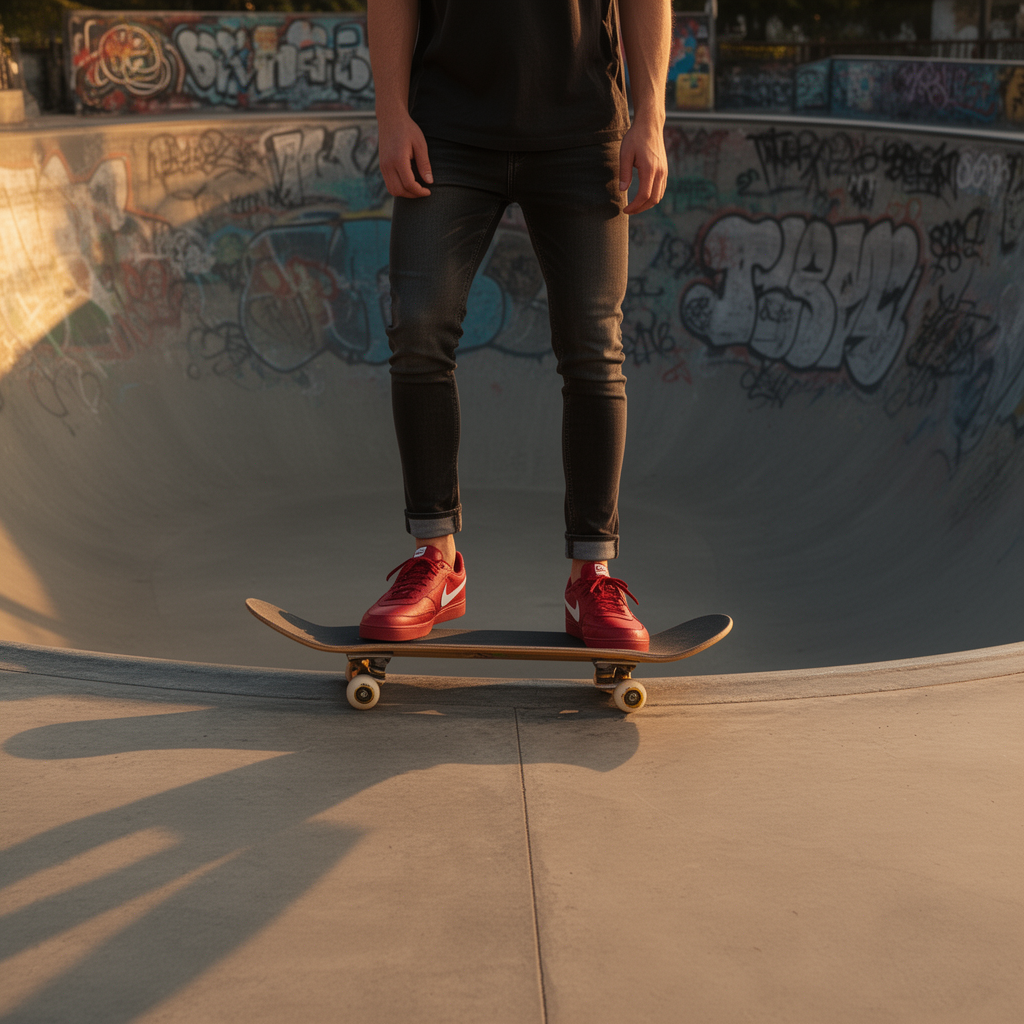
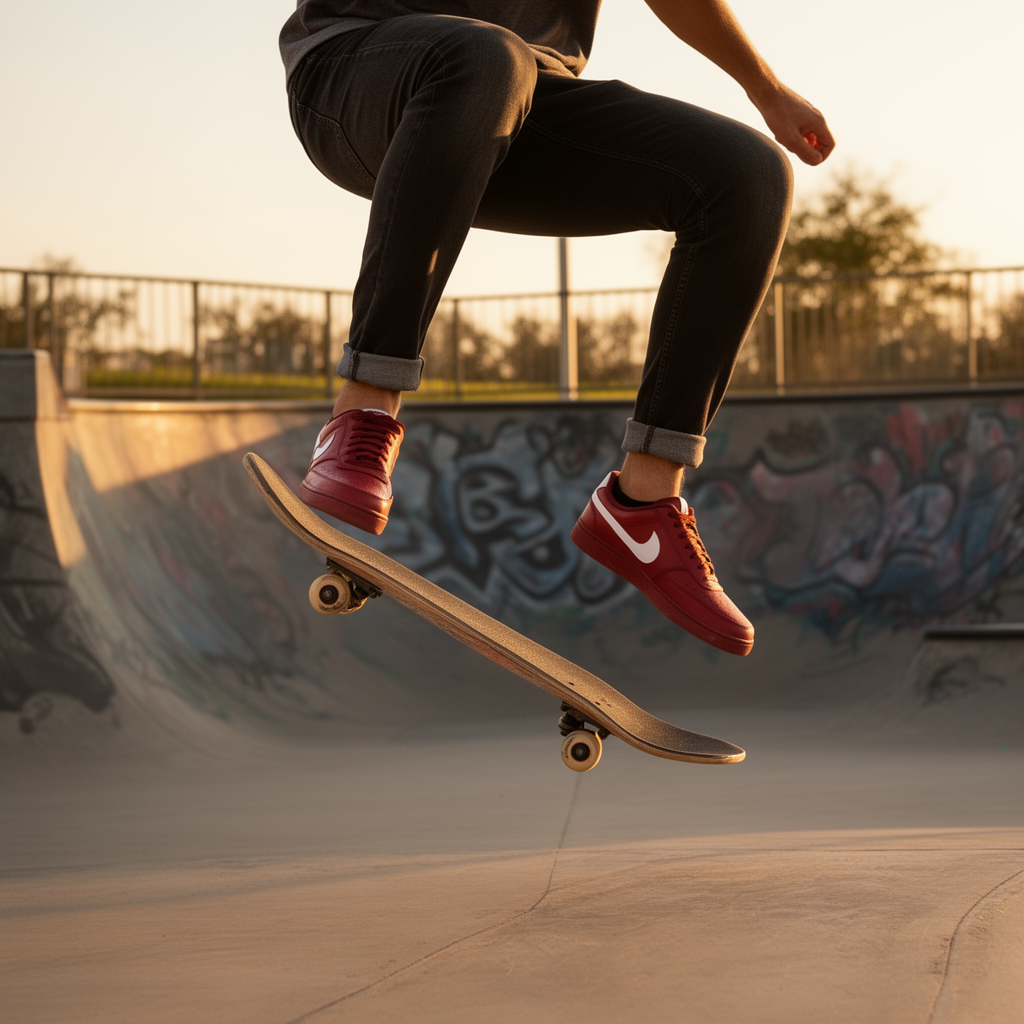
Replace mens4 skatepark stand with ollie action shot
Dynamic pose that held up — original pipeline, shoe cutout ref.

diff --git a/app/portfolio/page.tsx b/app/portfolio/page.tsx
@@ -730,9 +730,9 @@ const portfolioItems: PortfolioItem[] = [
   },
   {
     src: "/images/portfolio/nike/mens4_on_model.png",
-    title: "Skatepark Stand",
+    title: "Ollie",
     subject: "Nike Court Vision — Mens",
-    scene: "Standing atop a halfpipe, foot on the skateboard",
+    scene: "Mid-ollie at a skatepark, golden hour",
     model: "Flux 2 Dev",
     tags: ["Nike", "Mens", "On Model", "Court Vision"],
     category: "nike",
